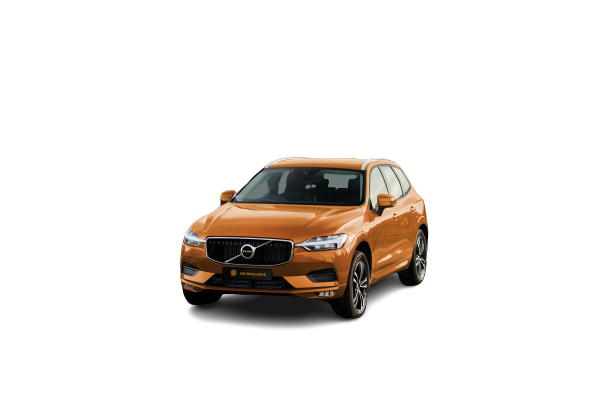
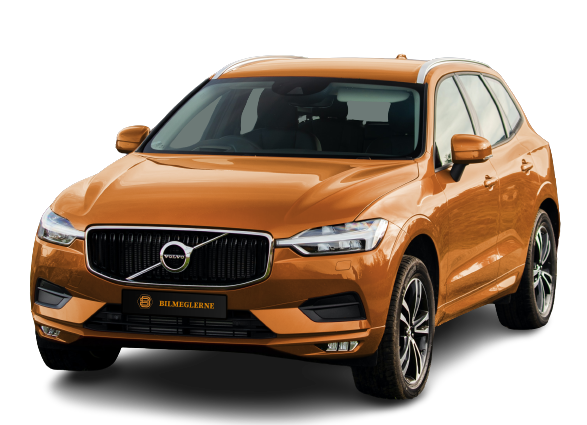
df

diff --git a/static/scss/base.scss b/static/scss/base.scss
@@ -12,7 +12,7 @@ $txt: #183b56;
     background: linear-gradient(to bottom right, rgba(255, 240, 180, 0.185), transparent);
     .content{
       padding-inline: 20px;
-      padding-top: 56px;
+      padding-top: 70px;
       padding-bottom: 40px;
       height: max-content;
       position: relative;
@@ -25,12 +25,12 @@ $txt: #183b56;
       .cover-image{
         filter: brightness(100%);
         display: block;
-        width: 650px;
+        width: 305px;
         height: auto;
         position: relative;
         left: 50%;
-        transform: translateX(-50%) translateY(-10px);
-        margin: -100px;
+        transform: translateX(-50%);
+        margin: 0px;
         margin-left: -4px;
       }
       .text{

diff --git a/static/scss/base.css b/static/scss/base.css
@@ -9,7 +9,7 @@
 }
 .cover .content {
   padding-inline: 20px;
-  padding-top: 56px;
+  padding-top: 70px;
   padding-bottom: 40px;
   height: -moz-max-content;
   height: max-content;
@@ -24,12 +24,12 @@
 .cover .content .cover-image {
   filter: brightness(100%);
   display: block;
-  width: 650px;
+  width: 305px;
   height: auto;
   position: relative;
   left: 50%;
-  transform: translateX(-50%) translateY(-10px);
-  margin: -100px;
+  transform: translateX(-50%);
+  margin: 0px;
   margin-left: -4px;
 }
 .cover .content .text {
